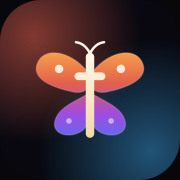
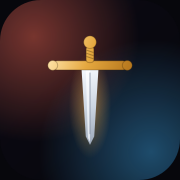
feat: tema de combate — icone espada-cruz, celebracao de vitoria, PWA instalavel
- Novo icone: espada com punho em cruz (espada do Espirito, Ef 6:17) no lugar da borboleta
  (masculino + cristao + metanoia). Regenera apple-icon e icons 192/512.
- Celebracao ao "Encarei": golpe de vitoria (onda de choque + fagulhas), respeita
  prefers-reduced-motion.
- Polimento: revelacao do mentor e micropassos, brilho na sequencia, sheen no botao primario,
  toque tatil em abas/pilulas.
- PWA instalavel: manifest.webmanifest (standalone) + link no layout.

Changed region(s): [[0.1944, 0.1944, 0.8056, 0.8333]]

diff --git a/app/globals.css b/app/globals.css
@@ -852,3 +852,98 @@ body {
     animation: none !important;
   }
 }
+
+/* ============ Polimento visual & interatividade ============ */
+.actions { position: relative; }
+
+/* Celebração: golpe de vitória (onda de choque + fagulhas) */
+.strike {
+  position: absolute;
+  left: 50%; top: 50%;
+  width: 0; height: 0;
+  pointer-events: none;
+  z-index: 6;
+}
+.strike .shock {
+  position: absolute;
+  left: -13px; top: -13px;
+  width: 26px; height: 26px;
+  border-radius: 999px;
+  border: 3px solid rgba(255, 200, 120, 0.9);
+  opacity: 0;
+  animation: shockwave 0.6s cubic-bezier(0.2, 0.7, 0.2, 1) forwards;
+}
+.strike .shock2 { border-color: rgba(226, 96, 74, 0.7); animation-delay: 0.08s; }
+@keyframes shockwave {
+  0%   { opacity: 0.9; transform: scale(0.3); border-width: 4px; }
+  70%  { opacity: 0.5; }
+  100% { opacity: 0; transform: scale(6.5); border-width: 1px; }
+}
+.strike .spark {
+  position: absolute;
+  left: -3px; top: -3px;
+  width: 6px; height: 6px;
+  border-radius: 999px;
+  background: radial-gradient(circle at 50% 40%, #fff2d6, #ffb24d 55%, transparent 70%);
+  opacity: 0;
+  will-change: transform, opacity;
+  animation: sparkFly 0.62s ease-out forwards;
+}
+.strike .spark:nth-child(3)  { --a: 0deg;   --d: 62px; }
+.strike .spark:nth-child(4)  { --a: 45deg;  --d: 54px; }
+.strike .spark:nth-child(5)  { --a: 90deg;  --d: 40px; }
+.strike .spark:nth-child(6)  { --a: 135deg; --d: 54px; }
+.strike .spark:nth-child(7)  { --a: 180deg; --d: 62px; }
+.strike .spark:nth-child(8)  { --a: 225deg; --d: 54px; }
+.strike .spark:nth-child(9)  { --a: 270deg; --d: 40px; }
+.strike .spark:nth-child(10) { --a: 315deg; --d: 54px; }
+@keyframes sparkFly {
+  0%   { opacity: 1; transform: rotate(var(--a)) translateX(4px) scale(1.2); }
+  100% { opacity: 0; transform: rotate(var(--a)) translateX(var(--d)) scale(0.4); }
+}
+
+/* Revelação suave do Mentor e dos micropassos */
+.mentor { animation: revealUp 0.45s cubic-bezier(0.2, 0.72, 0.16, 1) both; }
+.steps-list li { animation: revealUp 0.4s cubic-bezier(0.2, 0.72, 0.16, 1) both; }
+.steps-list li:nth-child(1) { animation-delay: 0.02s; }
+.steps-list li:nth-child(2) { animation-delay: 0.12s; }
+.steps-list li:nth-child(3) { animation-delay: 0.22s; }
+@keyframes revealUp {
+  from { opacity: 0; transform: translateY(8px); }
+  to   { opacity: 1; transform: translateY(0); }
+}
+
+/* Sequência (chama): brilho pulsante */
+.flame { animation: flameGlow 2.6s ease-in-out infinite; }
+@keyframes flameGlow {
+  0%, 100% { text-shadow: 0 0 0 rgba(226, 96, 74, 0); }
+  50%      { text-shadow: 0 0 12px rgba(226, 96, 74, 0.65); }
+}
+
+/* Botão primário: elevação e sheen no hover */
+.btn-primary { position: relative; overflow: hidden; }
+.btn-primary:hover:not(:active) {
+  transform: translateY(-1px);
+  box-shadow: 0 16px 36px -12px rgba(255, 255, 255, 0.45),
+    0 0 0 1px rgba(255, 255, 255, 0.25) inset;
+}
+.btn-primary::after {
+  content: "";
+  position: absolute;
+  inset: 0;
+  pointer-events: none;
+  background: linear-gradient(120deg, transparent 32%, rgba(255, 255, 255, 0.5) 50%, transparent 68%);
+  transform: translateX(-130%);
+  transition: transform 0.6s ease;
+}
+.btn-primary:hover::after { transform: translateX(130%); }
+
+/* Toque tátil extra */
+.tab:active { transform: scale(0.96); }
+.pill:active { transform: scale(0.96); }
+
+/* Respeita quem prefere menos movimento */
+@media (prefers-reduced-motion: reduce) {
+  .strike, .btn-primary::after { display: none; }
+  .flame, .mentor, .steps-list li { animation: none !important; }
+}

diff --git a/app/page.tsx b/app/page.tsx
@@ -198,6 +198,7 @@ export default function Home() {
   const [intFilter, setIntFilter] = useState<IntFilter>("todas");
   const [currentId, setCurrentId] = useState<string | null>(null);
   const [pulse, setPulse] = useState(false);
+  const [celebrate, setCelebrate] = useState(0);
 
   // ---- Idiomas / Quiz ----
   const [lang, setLang] = useState<Lang>("en");
@@ -312,6 +313,7 @@ export default function Home() {
     if (!current) return;
     markDone(current.id);
     setPulse(true);
+    setCelebrate((c) => c + 1);
     window.setTimeout(() => setPulse(false), 500);
     window.setTimeout(next, 280);
   }
@@ -772,6 +774,20 @@ export default function Home() {
               >
                 ✓ Encarei
               </button>
+              {celebrate > 0 && (
+                <div className="strike" key={celebrate} aria-hidden="true">
+                  <i className="shock" />
+                  <i className="shock shock2" />
+                  <span className="spark" />
+                  <span className="spark" />
+                  <span className="spark" />
+                  <span className="spark" />
+                  <span className="spark" />
+                  <span className="spark" />
+                  <span className="spark" />
+                  <span className="spark" />
+                </div>
+              )}
             </div>
           )}
 

diff --git a/app/layout.tsx b/app/layout.tsx
@@ -7,6 +7,7 @@ export const metadata: Metadata = {
     "Um desafio de coragem por vez: uma ação concreta para hoje e uma pergunta que vai à raiz. Ancorado na Palavra, no estoicismo e nos mestres. Funciona offline.",
   applicationName: "METANOIA",
   appleWebApp: { capable: true, title: "METANOIA", statusBarStyle: "black-translucent" },
+  manifest: "/manifest.webmanifest",
 };
 
 export const viewport: Viewport = {